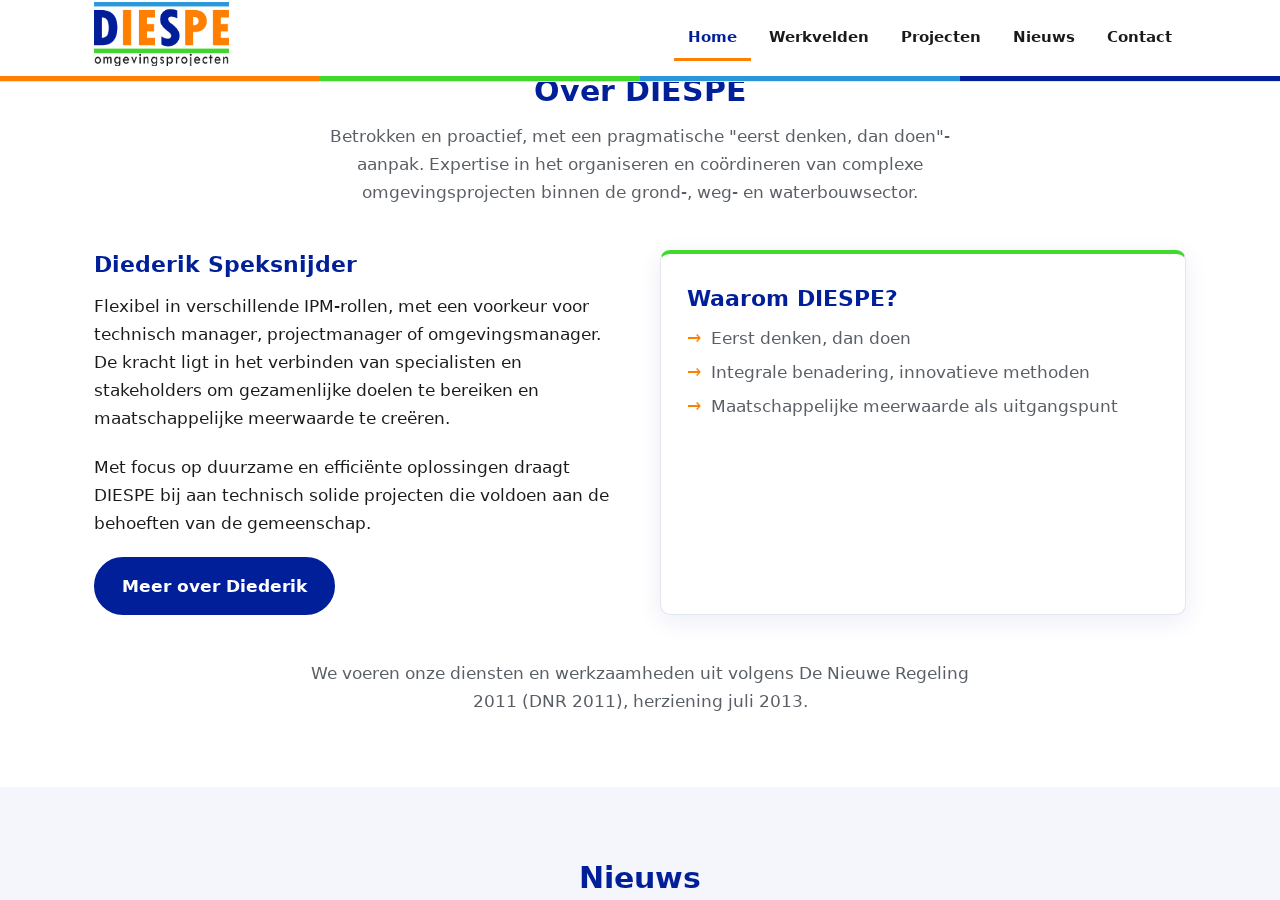
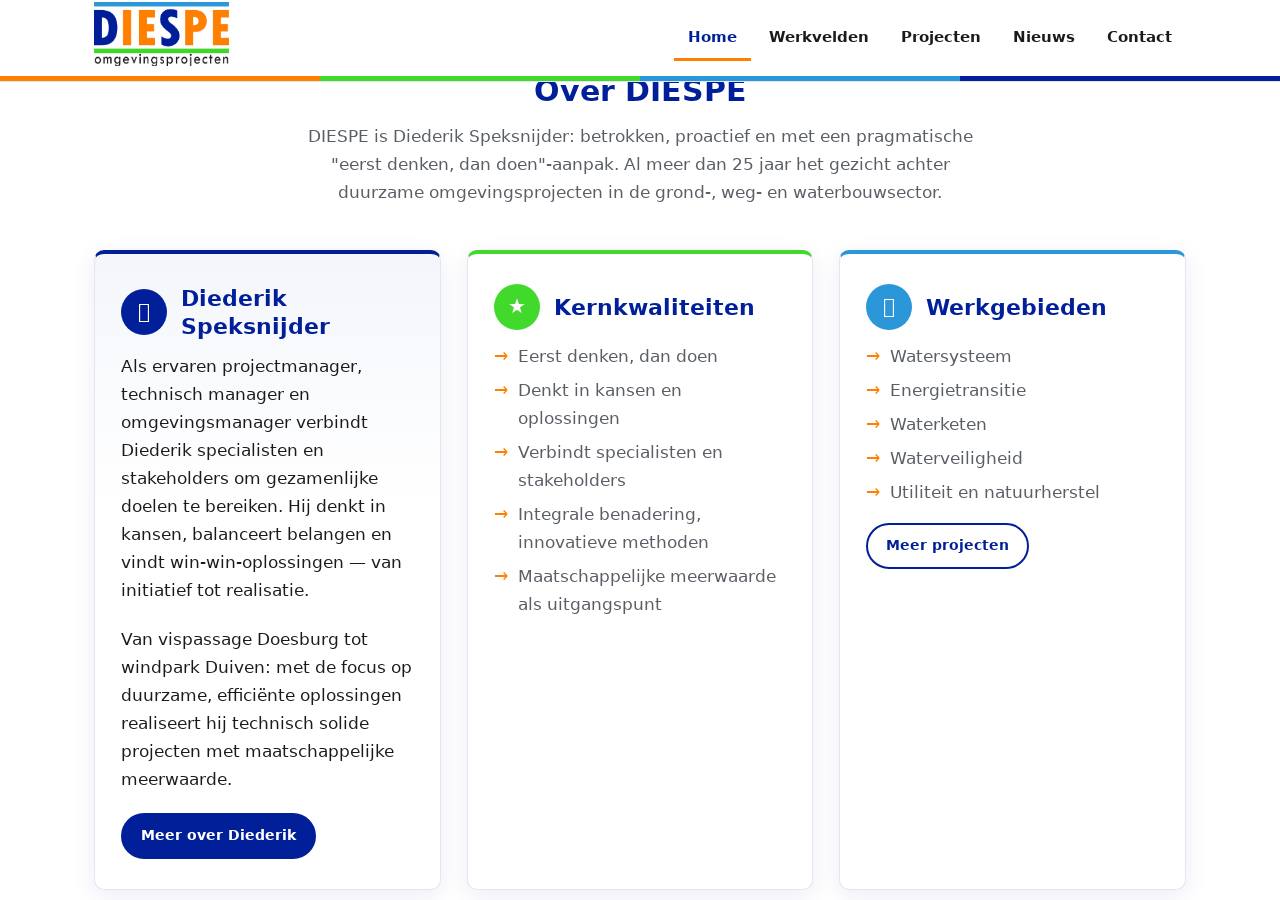
Over DIESPE: drie kolommen met Diederik als gezicht en wervende teksten

diff --git a/preview/index.html b/preview/index.html
@@ -148,21 +148,34 @@
 <section class="section" id="over">
   <div class="container">
     <h2 class="section-title">Over DIESPE</h2>
-    <p class="section-intro">Betrokken en proactief, met een pragmatische &quot;eerst denken, dan doen&quot;-aanpak. Expertise in het organiseren en co&ouml;rdineren van complexe omgevingsprojecten binnen de grond-, weg- en waterbouwsector.</p>
-    <div class="contact-grid">
-      <div>
-        <h3>Diederik Speksnijder</h3>
-        <p>Flexibel in verschillende IPM-rollen, met een voorkeur voor technisch manager, projectmanager of omgevingsmanager. De kracht ligt in het verbinden van specialisten en stakeholders om gezamenlijke doelen te bereiken en maatschappelijke meerwaarde te cre&euml;ren.</p>
-        <p>Met focus op duurzame en effici&euml;nte oplossingen draagt DIESPE bij aan technisch solide projecten die voldoen aan de behoeften van de gemeenschap.</p>
-        <a class="btn" href="#">Meer over Diederik</a>
+    <p class="section-intro">DIESPE is Diederik Speksnijder: betrokken, proactief en met een pragmatische &quot;eerst denken, dan doen&quot;-aanpak. Al meer dan 25 jaar het gezicht achter duurzame omgevingsprojecten in de grond-, weg- en waterbouwsector.</p>
+    <div class="grid-3">
+      <div class="card card--diederik">
+        <div class="card-header"><span class="card-icon" aria-hidden="true">&#128100;</span><h3>Diederik Speksnijder</h3></div>
+        <p>Als ervaren projectmanager, technisch manager en omgevingsmanager verbindt Diederik specialisten en stakeholders om gezamenlijke doelen te bereiken. Hij denkt in kansen, balanceert belangen en vindt win-win-oplossingen &mdash; van initiatief tot realisatie.</p>
+        <p>Van vispassage Doesburg tot windpark Duiven: met de focus op duurzame, effici&euml;nte oplossingen realiseert hij technisch solide projecten met maatschappelijke meerwaarde.</p>
+        <a class="btn card-more" href="#">Meer over Diederik</a>
       </div>
       <div class="card">
-        <h3>Waarom DIESPE?</h3>
+        <div class="card-header"><span class="card-icon" aria-hidden="true">&#9733;</span><h3>Kernkwaliteiten</h3></div>
         <ul>
           <li>Eerst denken, dan doen</li>
+          <li>Denkt in kansen en oplossingen</li>
+          <li>Verbindt specialisten en stakeholders</li>
           <li>Integrale benadering, innovatieve methoden</li>
           <li>Maatschappelijke meerwaarde als uitgangspunt</li>
         </ul>
+      </div>
+      <div class="card">
+        <div class="card-header"><span class="card-icon" aria-hidden="true">&#127757;</span><h3>Werkgebieden</h3></div>
+        <ul>
+          <li>Watersysteem</li>
+          <li>Energietransitie</li>
+          <li>Waterketen</li>
+          <li>Waterveiligheid</li>
+          <li>Utiliteit en natuurherstel</li>
+        </ul>
+        <a class="btn btn--outline card-more" href="#">Meer projecten</a>
       </div>
     </div>
     <p class="section-intro" style="margin-top:44px; margin-bottom:0;">We voeren onze diensten en werkzaamheden uit volgens De Nieuwe Regeling 2011 (DNR 2011), herziening juli 2013.</p>

diff --git a/preview/style.css b/preview/style.css
@@ -675,3 +675,9 @@ button[type="submit"], .wp-block-search__button, .search-submit { border: 0; cur
   border-radius: 6px;
 }
 :focus { outline-color: var(--diespe-blue-light); }
+
+/* Over DIESPE: accent voor de Diederik-kaart */
+.card--diederik {
+  border-top-color: var(--diespe-blue);
+  background: linear-gradient(180deg, var(--diespe-bg-alt) 0%, #fff 40%);
+}

diff --git a/style.css b/style.css
@@ -675,3 +675,9 @@ button[type="submit"], .wp-block-search__button, .search-submit { border: 0; cur
   border-radius: 6px;
 }
 :focus { outline-color: var(--diespe-blue-light); }
+
+/* Over DIESPE: accent voor de Diederik-kaart */
+.card--diederik {
+  border-top-color: var(--diespe-blue);
+  background: linear-gradient(180deg, var(--diespe-bg-alt) 0%, #fff 40%);
+}

diff --git a/front-page.php b/front-page.php
@@ -40,10 +40,10 @@ $kaarten = array(
 	),
 );
 
-$over_intro = diespe_home_text( 'over_intro', __( 'Betrokken en proactief, met een pragmatische "eerst denken, dan doen"-aanpak. Expertise in het organiseren en coördineren van complexe omgevingsprojecten binnen de grond-, weg- en waterbouwsector.', 'diespe' ) );
+$over_intro = diespe_home_text( 'over_intro', __( 'DIESPE is Diederik Speksnijder: betrokken, proactief en met een pragmatische "eerst denken, dan doen"-aanpak. Al meer dan 25 jaar het gezicht achter duurzame omgevingsprojecten in de grond-, weg- en waterbouwsector.', 'diespe' ) );
 $over_naam  = diespe_home_text( 'over_naam', __( 'Diederik Speksnijder', 'diespe' ) );
-$over_tekst1 = diespe_home_text( 'over_tekst1', __( 'Flexibel in verschillende IPM-rollen, met een voorkeur voor technisch manager, projectmanager of omgevingsmanager. De kracht ligt in het verbinden van specialisten en stakeholders om gezamenlijke doelen te bereiken en maatschappelijke meerwaarde te creëren.', 'diespe' ) );
-$over_tekst2 = diespe_home_text( 'over_tekst2', __( 'Met focus op duurzame en efficiënte oplossingen draagt DIESPE bij aan technisch solide projecten die voldoen aan de behoeften van de gemeenschap.', 'diespe' ) );
+$over_tekst1 = diespe_home_text( 'over_tekst1', __( 'Als ervaren projectmanager, technisch manager en omgevingsmanager verbindt Diederik specialisten en stakeholders om gezamenlijke doelen te bereiken. Hij denkt in kansen, balanceert belangen en vindt win-win-oplossingen — van initiatief tot realisatie.', 'diespe' ) );
+$over_tekst2 = diespe_home_text( 'over_tekst2', __( 'Van vispassage Doesburg tot windpark Duiven: mee de focus op duurzame, efficiënte oplossingen realiseert hij technisch solide projecten met maatschappelijke meerwaarde.', 'diespe' ) );
 ?>
 
 <section class="hero">
@@ -160,20 +160,42 @@ $over_tekst2 = diespe_home_text( 'over_tekst2', __( 'Met focus op duurzame en ef
 	<div class="container">
 		<h2 class="section-title"><?php esc_html_e( 'Over DIESPE', 'diespe' ); ?></h2>
 		<p class="section-intro"><?php echo esc_html( $over_intro ); ?></p>
-		<div class="contact-grid">
-			<div>
-				<h3><?php echo esc_html( $over_naam ); ?></h3>
+		<div class="grid-3">
+			<div class="card card--diederik">
+				<div class="card-header">
+					<span class="card-icon" aria-hidden="true">&#128100;</span>
+					<h3><?php echo esc_html( $over_naam ); ?></h3>
+				</div>
 				<p><?php echo esc_html( $over_tekst1 ); ?></p>
 				<p><?php echo esc_html( $over_tekst2 ); ?></p>
-				<a class="btn" href="<?php echo esc_url( home_url( '/over-diederik-speksnijder/' ) ); ?>"><?php esc_html_e( 'Meer over Diederik', 'diespe' ); ?></a>
+				<a class="btn card-more" href="<?php echo esc_url( home_url( '/over-diederik-speksnijder/' ) ); ?>"><?php esc_html_e( 'Meer over Diederik', 'diespe' ); ?></a>
 			</div>
 			<div class="card">
-				<h3><?php esc_html_e( 'Waarom DIESPE?', 'diespe' ); ?></h3>
+				<div class="card-header">
+					<span class="card-icon" aria-hidden="true">&#9733;</span>
+					<h3><?php esc_html_e( 'Kernkwaliteiten', 'diespe' ); ?></h3>
+				</div>
 				<ul>
 					<li><?php esc_html_e( 'Eerst denken, dan doen', 'diespe' ); ?></li>
+					<li><?php esc_html_e( 'Denkt in kansen en oplossingen', 'diespe' ); ?></li>
+					<li><?php esc_html_e( 'Verbindt specialisten en stakeholders', 'diespe' ); ?></li>
 					<li><?php esc_html_e( 'Integrale benadering, innovatieve methoden', 'diespe' ); ?></li>
 					<li><?php esc_html_e( 'Maatschappelijke meerwaarde als uitgangspunt', 'diespe' ); ?></li>
 				</ul>
+			</div>
+			<div class="card">
+				<div class="card-header">
+					<span class="card-icon" aria-hidden="true">&#127757;</span>
+					<h3><?php esc_html_e( 'Werkgebieden', 'diespe' ); ?></h3>
+				</div>
+				<ul>
+					<li><?php esc_html_e( 'Watersysteem', 'diespe' ); ?></li>
+					<li><?php esc_html_e( 'Energietransitie', 'diespe' ); ?></li>
+					<li><?php esc_html_e( 'Waterketen', 'diespe' ); ?></li>
+					<li><?php esc_html_e( 'Waterveiligheid', 'diespe' ); ?></li>
+					<li><?php esc_html_e( 'Utiliteit en natuurherstel', 'diespe' ); ?></li>
+				</ul>
+				<a class="btn btn--outline card-more" href="<?php echo esc_url( get_post_type_archive_link( 'diespe_project' ) ); ?>"><?php esc_html_e( 'Meer projecten', 'diespe' ); ?></a>
 			</div>
 		</div>
 		<p class="section-intro" style="margin-top:44px; margin-bottom:0;"><?php esc_html_e( 'We voeren onze diensten en werkzaamheden uit volgens De Nieuwe Regeling 2011 (DNR 2011), herziening juli 2013.', 'diespe' ); ?></p>
